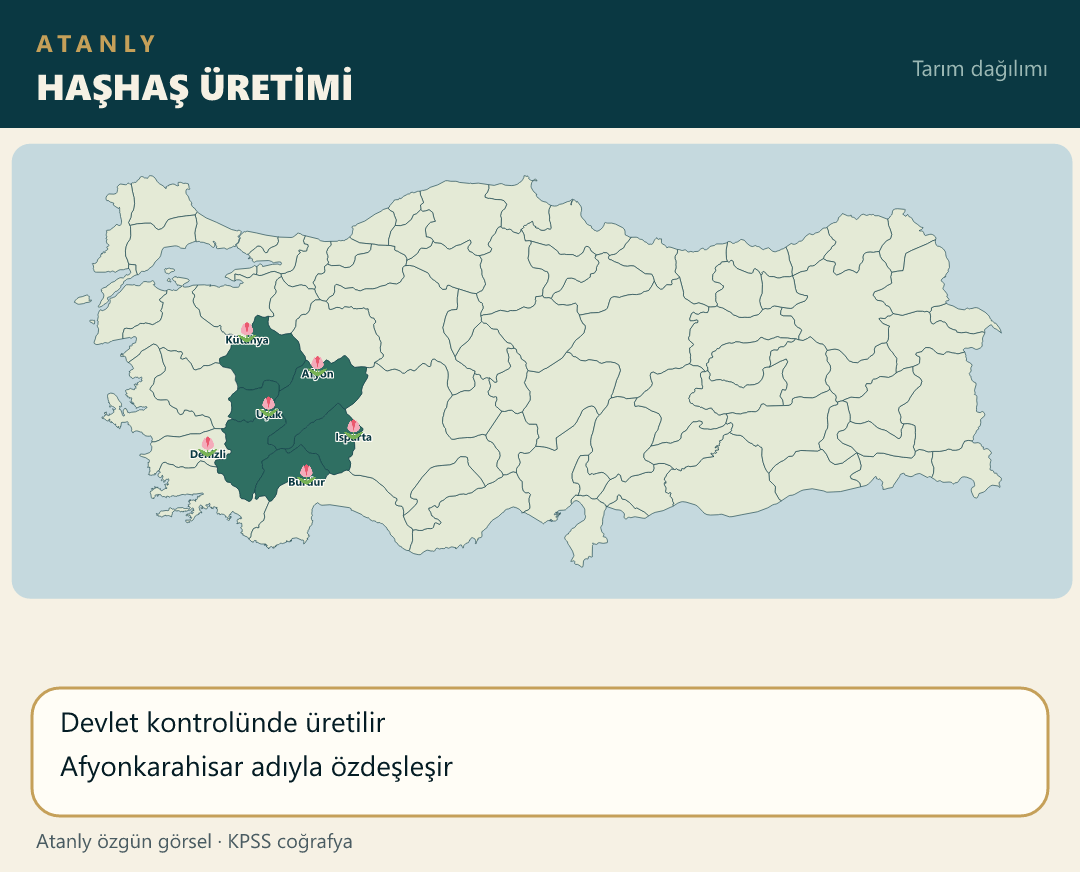
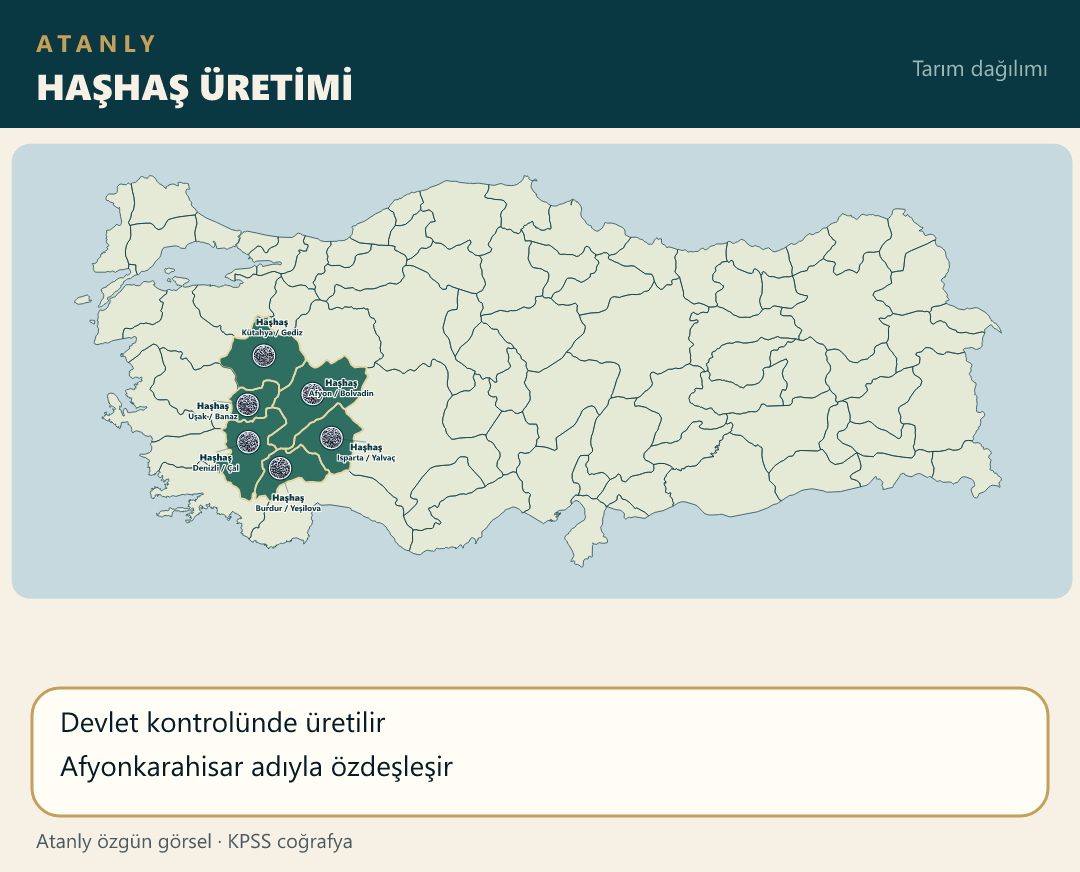
Place the poppy photo on West Anatolia haşhaş production pins.

Changed region(s): [[0.1528, 0.3406, 0.3667, 0.5883], [0.825, 0.4025, 0.8556, 0.4335]]

diff --git a/scripts/build-atanly-maps.js b/scripts/build-atanly-maps.js
@@ -605,7 +605,16 @@ function main() {
         { file: "patates.png", title: "PATATES ÜRETİMİ", iller: ["Niğde", "Nevşehir", "Afyon", "Bolu", "Erzurum", "İzmir"], facts: ["Serin ve yüksek yerlerde verim artar", "Niğde–Nevşehir öne çıkar"] },
         { file: "arpa.png", title: "ARPA ÜRETİMİ", urun: "Arpa", iller: ["Konya", "Ankara", "Şanlıurfa", "Kayseri", "Yozgat", "Kırşehir"], facts: ["Buğdaya göre daha kurak koşullara dayanır", "Hayvancılık yemi olarak da önemlidir"] },
         { file: "seker_pancar.png", title: "ŞEKER PANCARI", iller: ["Konya", "Eskişehir", "Aksaray", "Yozgat", "Tokat", "Erzurum", "Kayseri"], facts: ["Ilıman-karasal iklim ve sulama", "Şeker fabrikaları çevresinde yoğunlaşır"] },
-        { file: "hashas.png", title: "HAŞHAŞ ÜRETİMİ", iller: ["Afyon", "Denizli", "Kütahya", "Burdur", "Isparta", "Uşak"], facts: ["Devlet kontrolünde üretilir", "Afyonkarahisar adıyla özdeşleşir"] },
+        { file: "hashas.png", title: "HAŞHAŞ ÜRETİMİ", urun: "Haşhaş",
+            noktalar: [
+                { il: "Kütahya", ilce: "Gediz", ldx: 8, ldy: -30 },
+                { il: "Afyon", ilce: "Bolvadin", ldx: 28, ldy: -8 },
+                { il: "Uşak", ilce: "Banaz", ldx: -34, ldy: 4 },
+                { il: "Denizli", ilce: "Çal", ldx: -32, ldy: 18 },
+                { il: "Burdur", ilce: "Yeşilova", ldx: 8, ldy: 32 },
+                { il: "Isparta", ilce: "Yalvaç", ldx: 34, ldy: 12 }
+            ],
+            facts: ["Devlet kontrolünde üretilir", "Afyonkarahisar adıyla özdeşleşir"] },
         { file: "incir.png", title: "İNCİR ÜRETİMİ", iller: ["Aydın", "İzmir", "Muğla", "Bursa", "Gaziantep"], facts: ["Aydın birinci sıradadır", "Ege’nin kurutmalık inciri meşhurdur"] },
         { file: "kayısı.png", title: "KAYISI ÜRETİMİ", iller: ["Malatya", "Elazığ", "Kahramanmaraş", "Iğdır"], facts: ["Malatya dünya ölçeğinde öne çıkar", "Kurutmalık kayısı ihracatı önemlidir"] },
         { file: "muz.png", title: "MUZ ÜRETİMİ", iller: ["Mersin", "Antalya", "Hatay"], facts: ["Don olayının az olduğu kıyı kuşağı", "Anamur–Alanya çevresi yoğundur"] },

diff --git a/notlar/cografya-19-not.js b/notlar/cografya-19-not.js
@@ -2,7 +2,7 @@
 (function () {
     function harita(src, alt) {
         return '<div class="mt-4 overflow-hidden rounded-xl border border-blue-200 dark:border-blue-700/50 bg-white dark:bg-slate-800 p-2">' +
-            '<img src="./src/img/' + src + '?v=25" alt="' + alt + ' Haritası" class="w-full h-auto rounded-lg object-contain" loading="lazy">' +
+            '<img src="./src/img/' + src + '?v=26" alt="' + alt + ' Haritası" class="w-full h-auto rounded-lg object-contain" loading="lazy">' +
             "</div>";
     }
 

diff --git a/index.html b/index.html
@@ -117,7 +117,7 @@
     <script src="notlar/cografya-16-not.js?v=3"></script>
     <script src="notlar/cografya-17-not.js?v=3"></script>
     <script src="notlar/cografya-18-not.js?v=15"></script>
-    <script src="notlar/cografya-19-not.js?v=21"></script>
+    <script src="notlar/cografya-19-not.js?v=22"></script>
     <script src="notlar/cografya-20-not.js?v=1"></script>
     <script src="notlar/cografya-21-not.js?v=4"></script>
     <script src="notlar/cografya-22-not.js?v=1"></script>
